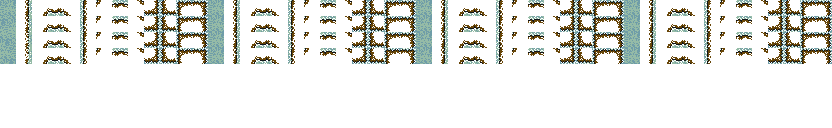
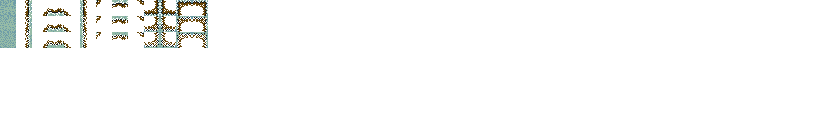
Added water animation. See water.png

Changed region(s): [[0.0, 0.0, 1.0, 0.5], [0.0938, 0.0, 0.1562, 0.0625]]

diff --git a/src/antonafanasjew/cosmodog/util/Mappings.java b/src/antonafanasjew/cosmodog/util/Mappings.java
@@ -177,7 +177,7 @@ public class Mappings {
 		TILE_TYPES_TO_BE_ANIMATED.add(TileType.WATER_BORDER_E);
 		TILE_TYPES_TO_BE_ANIMATED.add(TileType.WATER_BORDER_SE);
 		TILE_TYPES_TO_BE_ANIMATED.add(TileType.WATER_BORDER_S);
-		TILE_TYPES_TO_BE_ANIMATED.add(TileType.WATER_BORDER_SE);
+		TILE_TYPES_TO_BE_ANIMATED.add(TileType.WATER_BORDER_SW);
 		TILE_TYPES_TO_BE_ANIMATED.add(TileType.WATER_BORDER_N_AND_E);
 		TILE_TYPES_TO_BE_ANIMATED.add(TileType.WATER_BORDER_N_AND_W);
 		TILE_TYPES_TO_BE_ANIMATED.add(TileType.WATER_BORDER_S_AND_E);

diff --git a/src/antonafanasjew/cosmodog/globals/TileType.java b/src/antonafanasjew/cosmodog/globals/TileType.java
@@ -33,8 +33,8 @@ public enum TileType {
 	
 	WATER_BORDER_S_AND_E(Layers.LAYER_WATER, 66),
 	WATER_BORDER_S_AND_W(Layers.LAYER_WATER, 68),
-	WATER_BORDER_N_AND_E(Layers.LAYER_WATER, 70),
-	WATER_BORDER_N_AND_W(Layers.LAYER_WATER, 72),
+	WATER_BORDER_N_AND_W(Layers.LAYER_WATER, 70),
+	WATER_BORDER_N_AND_E(Layers.LAYER_WATER, 72),
 	
 	FIRE_EFFECT(Layers.LAYER_META_EFFECTS, 28),
 	SMOKE_EFFECT(Layers.LAYER_META_EFFECTS, 35),

diff --git a/src/antonafanasjew/cosmodog/resourcehandling/AbstractResourceWrapperBuilder.java b/src/antonafanasjew/cosmodog/resourcehandling/AbstractResourceWrapperBuilder.java
@@ -28,7 +28,7 @@ public abstract class AbstractResourceWrapperBuilder<ENTITY_TYPE> implements Res
 		String[] lines = text.split(System.getProperty("line.separator"));
 		//We start with 1 to skip the header;
 		for (int i = 1; i < lines.length; i++) {
-			String line = lines[i];
+			String line = lines[i].trim();
 			if (line != null && line.trim().isEmpty() == false) {
 				
 				String entityId = line.split(";")[0];
